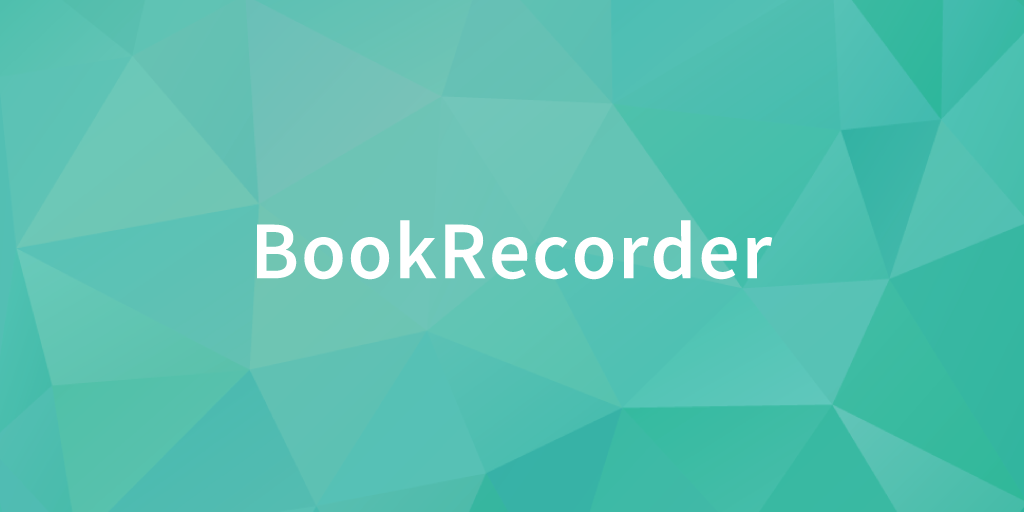
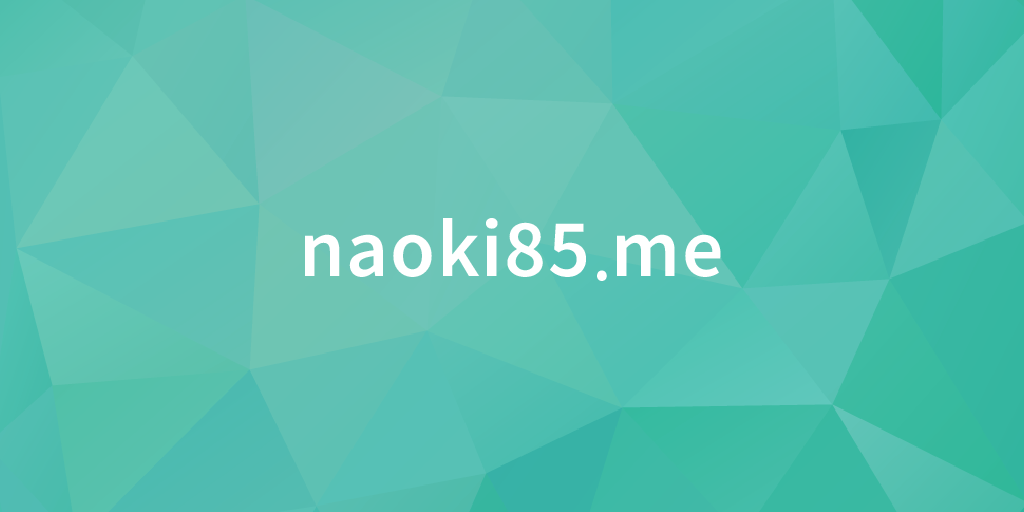
Change base url

Changed region(s): [[0.25, 0.4062, 0.75, 0.5625]]

diff --git a/app/javascript/components/posts/index.vue b/app/javascript/components/posts/index.vue
@@ -17,7 +17,7 @@
                       {{ post.post_category.name }}
                     </span>
                   </div>
-                  <div class="siimple-box-title">{{ post.title }}</div>
+                  <div class="siimple-box-title box-title">{{ post.title }}</div>
                 </div>
                 <div class="siimple-grid-col siimple-grid-col--4">
                   <div class="siimple-box-detail">

diff --git a/app/javascript/components/commons/hatebu_button.vue b/app/javascript/components/commons/hatebu_button.vue
@@ -19,7 +19,7 @@
     methods: {
       bookmark: function() {
         var text = this.text;
-        var url = "https://bookrecorder.net" + this.path;
+        var url = "https://naoki85.me" + this.path;
         var redirect_url = "http://b.hatena.ne.jp/add?mode=confirm";
         location.href = redirect_url + '&title=' + encodeURIComponent(text) + '&url=' + encodeURIComponent(url);
       }

diff --git a/app/javascript/components/commons/tweet_button.vue b/app/javascript/components/commons/tweet_button.vue
@@ -19,7 +19,7 @@
     methods: {
       tweet: function() {
         var text = this.text;
-        var url = "https://bookrecorder.net" + this.path;
+        var url = "https://naoki85.me" + this.path;
         var redirect_url = "https://twitter.com/share";
         location.href = redirect_url + '?text=' + text + '&url=' + url;
       }

diff --git a/app/assets/stylesheets/application.scss b/app/assets/stylesheets/application.scss
@@ -44,6 +44,11 @@
   width: 100%;
 }
 
+.box-title {
+  font-size: 20px !important;
+  max-height: 30px;
+}
+
 .mt-10 {
   margin-top: 10px;
 }

diff --git a/app/helpers/application_helper.rb b/app/helpers/application_helper.rb
@@ -1,7 +1,7 @@
 module ApplicationHelper
   def default_meta_tags
     {
-        title:       'BookRecorder',
+        title:       'naoki85 のブログ',
         description: I18n.t('top.index.description'),
         keywords:    'Book,本',
         charset:     'utf-8',
@@ -10,11 +10,11 @@ module ApplicationHelper
         # 'viewport' => 'width=device-width, initial-scale=1.0, maximum-scale=1.0, user-scalable=0"]',
         # OGPの設定
         og: {
-            title: 'BookRecorder',
+            title: 'naoki85 のブログ',
             type: 'website',
             url: request.original_url,
             image: image_url('commons/ogp.png'),
-            site_name: 'BookRecorder',
+            site_name: 'naoki85 のブログ',
             description: I18n.t('top.index.description'),
             locale: 'ja_JP'
         },
@@ -28,10 +28,10 @@ module ApplicationHelper
 
   def posts_meta_tags(description='')
     {
-        title: 'ブログ一覧 | BookRecorder',
+        title: 'ブログ一覧',
         description: description,
         og: {
-            title: 'ブログ一覧 | BookRecorder',
+            title: 'ブログ一覧',
             description: description,
         },
         twitter: {
@@ -45,10 +45,10 @@ module ApplicationHelper
   # @return [Hash]
   def post_meta_tags(post)
     {
-        title: "#{post.title} | BookRecorder",
+        title: post.title,
         description: post.summary,
         og: {
-            title: "#{post.title} | BookRecorder",
+            title: post.title,
             description: post.summary,
             image: post_ogp_image(post.post_image_path),
         },

diff --git a/config/sitemap.rb b/config/sitemap.rb
@@ -1,10 +1,6 @@
 SitemapGenerator::Sitemap.create(
-    :default_host => 'https://bookrecorder.net',
-    :sitemaps_path => 'sitemaps/bookrecorder/')
-
-SitemapGenerator::Sitemap.create(
-    :default_host => 'https://blog.bookrecorder.net',
-    :sitemaps_path => 'sitemaps/blog_bookrecorder') do
+    :default_host => 'https://naoki85.me',
+    :sitemaps_path => 'sitemaps/naoki85') do
   Post.released.find_each do |post|
     add post_path(post), lastmod: post.updated_at
   end

diff --git a/config/application.rb b/config/application.rb
@@ -21,7 +21,7 @@ module BookRecorder
     config.i18n.load_path += Dir[Rails.root.join('config', 'locales', '**', '*.{rb,yml}').to_s]
     config.enable_dependency_loading = true
     config.autoload_paths += Dir["#{config.root}/lib"]
-    config.base_url = 'https://blog.bookrecorder.net'
+    config.base_url = 'https://naoki85.net'
 
     # RSpec
     config.generators do |g|
